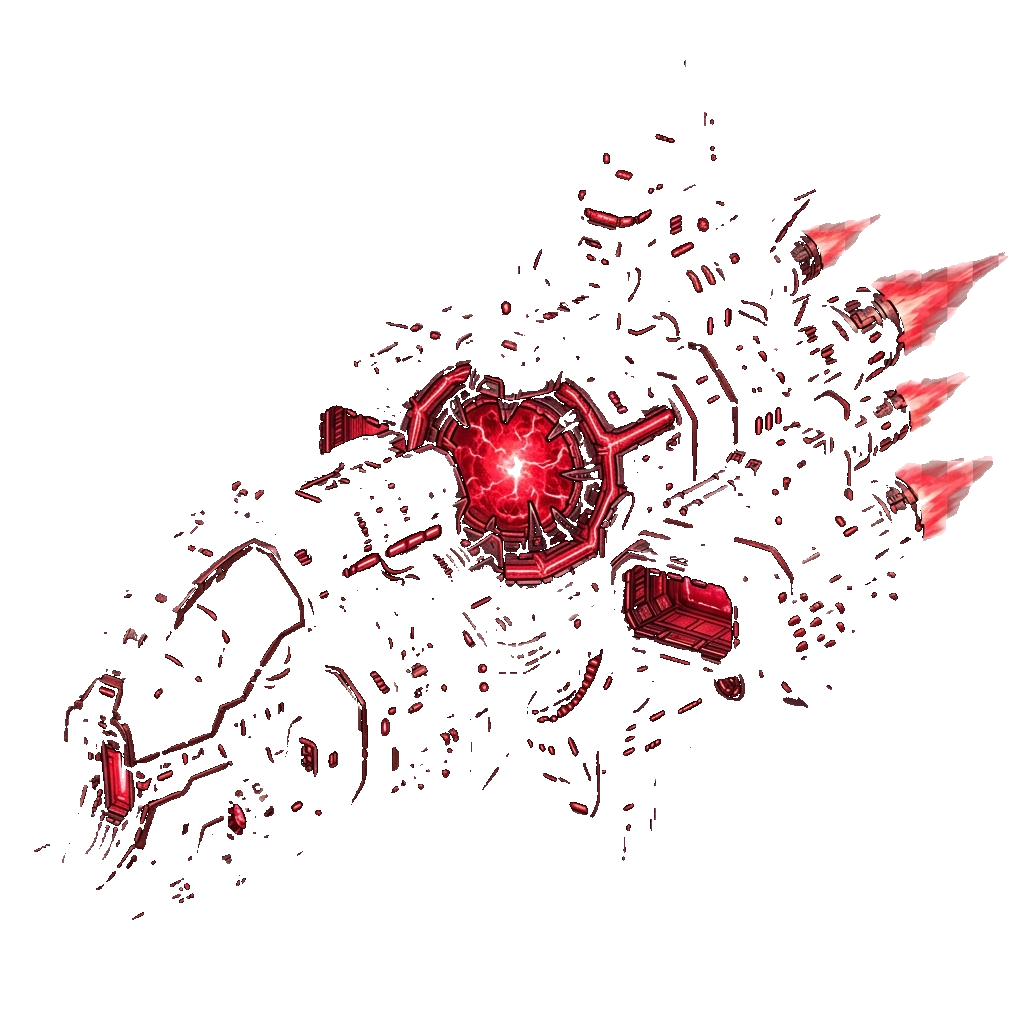
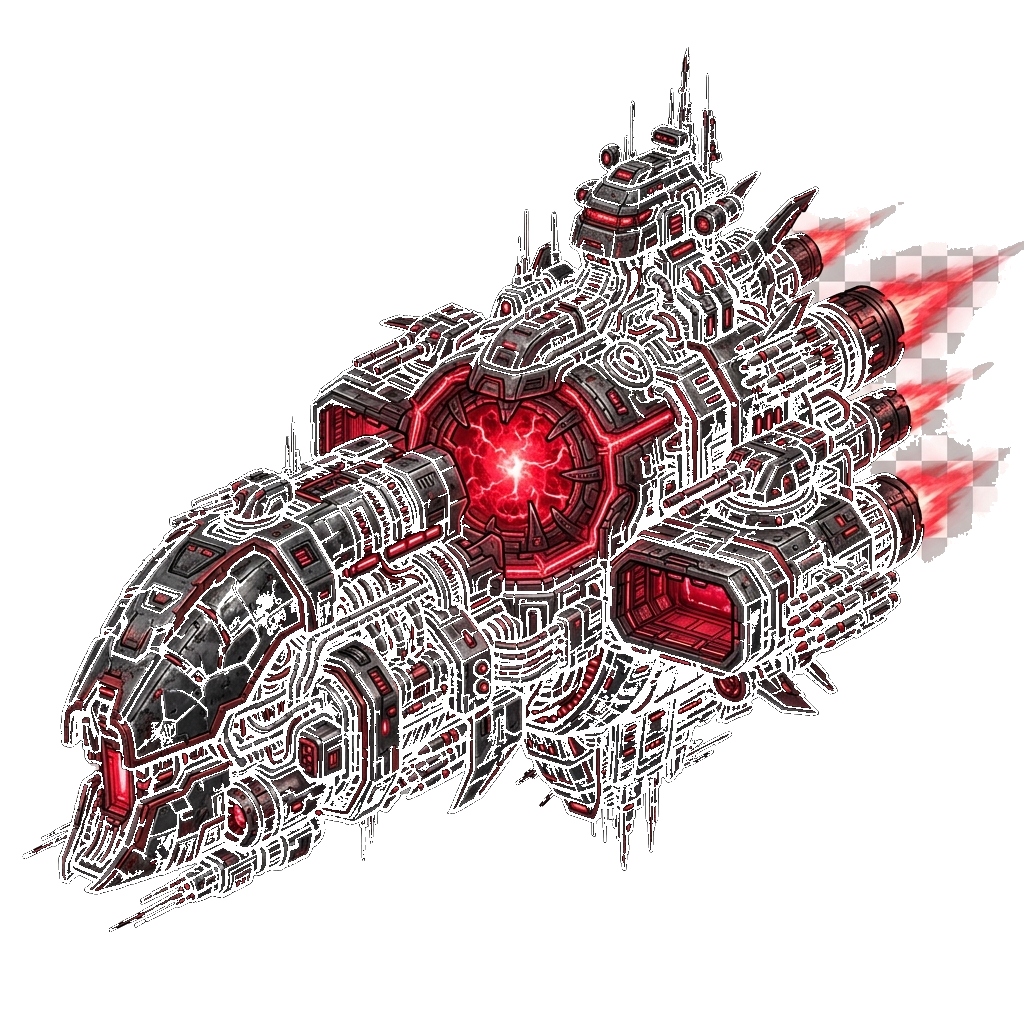
update

diff --git a/lib/game/game_manager.dart b/lib/game/game_manager.dart
@@ -231,8 +231,12 @@ class GameManager extends ChangeNotifier {
     for (var entry in list.entries) {
       try {
         final rawImg = await _loadSprite(entry.value);
-        final processedImg = await _makeBackgroundTransparent(rawImg);
-        spriteImages[entry.key] = processedImg;
+        if (entry.key.startsWith('drone_boss')) {
+          spriteImages[entry.key] = rawImg;
+        } else {
+          final processedImg = await _makeBackgroundTransparent(rawImg);
+          spriteImages[entry.key] = processedImg;
+        }
       } catch (e) {
         debugPrint("Error loading sprite ${entry.key}: $e");
       }